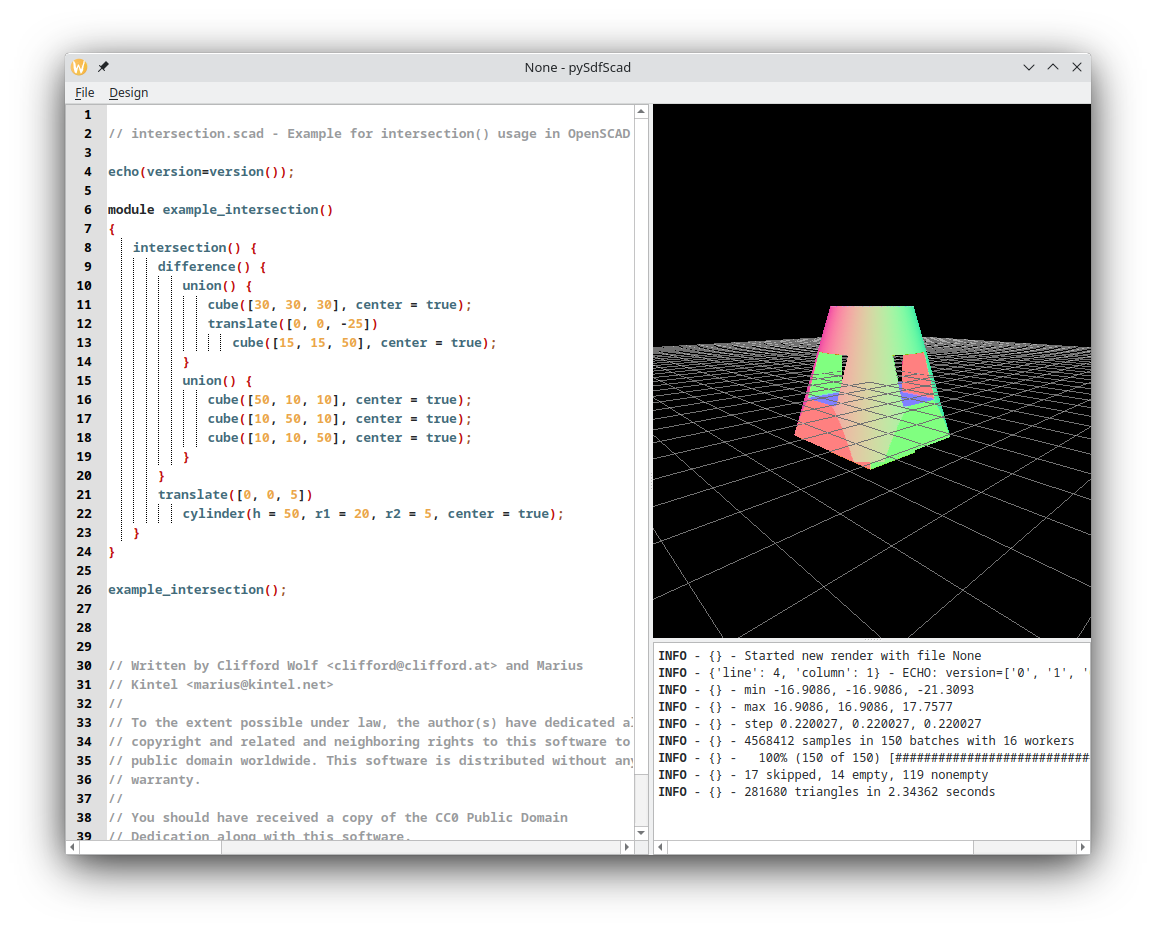
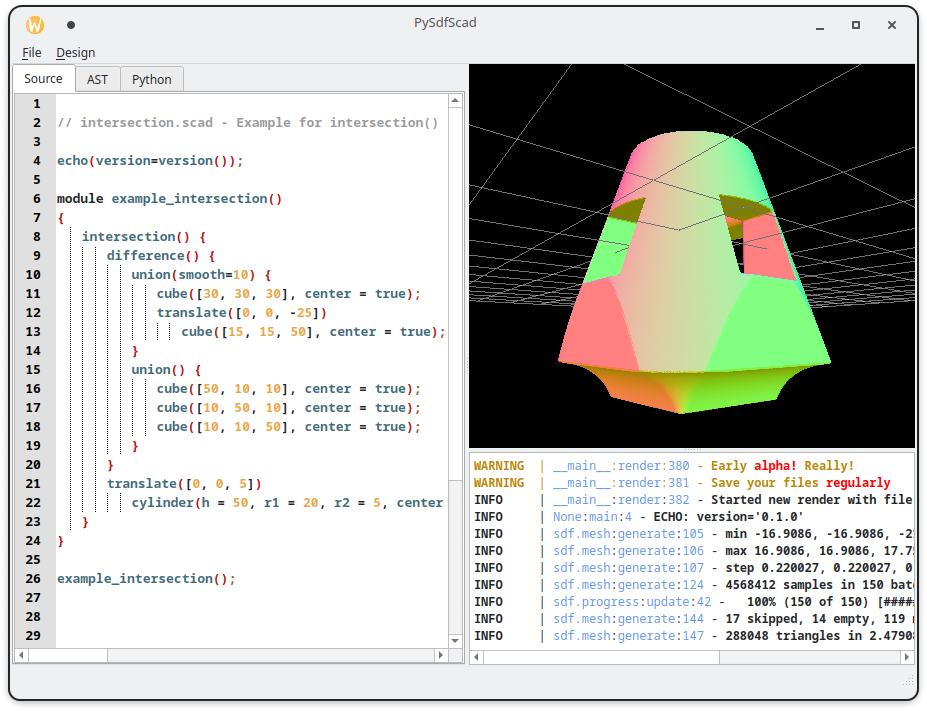
Polishing

diff --git a/pysdfscad_qtgui/main.py b/pysdfscad_qtgui/main.py
@@ -241,6 +241,8 @@ import os
 
 ui_dir=Path(__file__).parent
 
+log_format='<level>{level: <8}</level> | <cyan>{name}</cyan>:<cyan>{function}</cyan>:<cyan>{line}</cyan> - <level>{message}</level>'
+
 class MainUi(QMainWindow):
     def __init__(self):
         super().__init__() # Call the inherited classes __init__ method
@@ -254,7 +256,7 @@ class MainUi(QMainWindow):
         self.preview3d.setCameraPosition(distance=40)
 
         self.logger=QTextEditLogger(self.sideSplitter)
-        self._logger_handle_id=logger.add(self.logger, colorize=True)
+        self._logger_handle_id=logger.add(self.logger, colorize=True,format=log_format)
 
         self.editor=EditorAll()
         self.editor.setText(EXAMPLE_TEXT)
@@ -375,6 +377,8 @@ class MainUi(QMainWindow):
 
     def render(self):
         self.logger._text=[]
+        logger.warning(f"Early \x1b[31malpha!\x1b[0m Really!")
+        logger.warning(f'Save your files \x1b[31mregularly\x1b[0m')
         logger.info(f"Started new render with file {self.openscadFile.file}")
         thread = Thread(target=self._render)
         thread.start()

diff --git a/pysdfscad_qtgui/logWidget.py b/pysdfscad_qtgui/logWidget.py
@@ -60,6 +60,7 @@ def replace_ansi(text):
     text = text.replace("\x1b[4m",'<span style="text-decoration: underline;">')
     text = text.replace("\x1b[30m",'<span style="color:black;">')
     text = text.replace("\x1b[31m",'<span style="color:red;">')
+    text = text.replace("\x1b[31m",'<span style="color:red;">')
     text = text.replace("\x1b[32m",'<span style="color:green;">')
     text = text.replace("\x1b[33m",'<span style="color:DarkGoldenRod;">')
     text = text.replace("\x1b[34m",'<span style="color:blue;">')

diff --git a/pysdfscad/openscad_builtins.py b/pysdfscad/openscad_builtins.py
@@ -119,7 +119,7 @@ def blend(context,ratio=0.5):
 
 def module_shell(context,thickness=10):
     def inner(children=lambda:()):
-        children = list(module_union()children())[0]
+        children = list(module_union()(children()))[0]
         return children.shell(thickness)
     return inner
 
